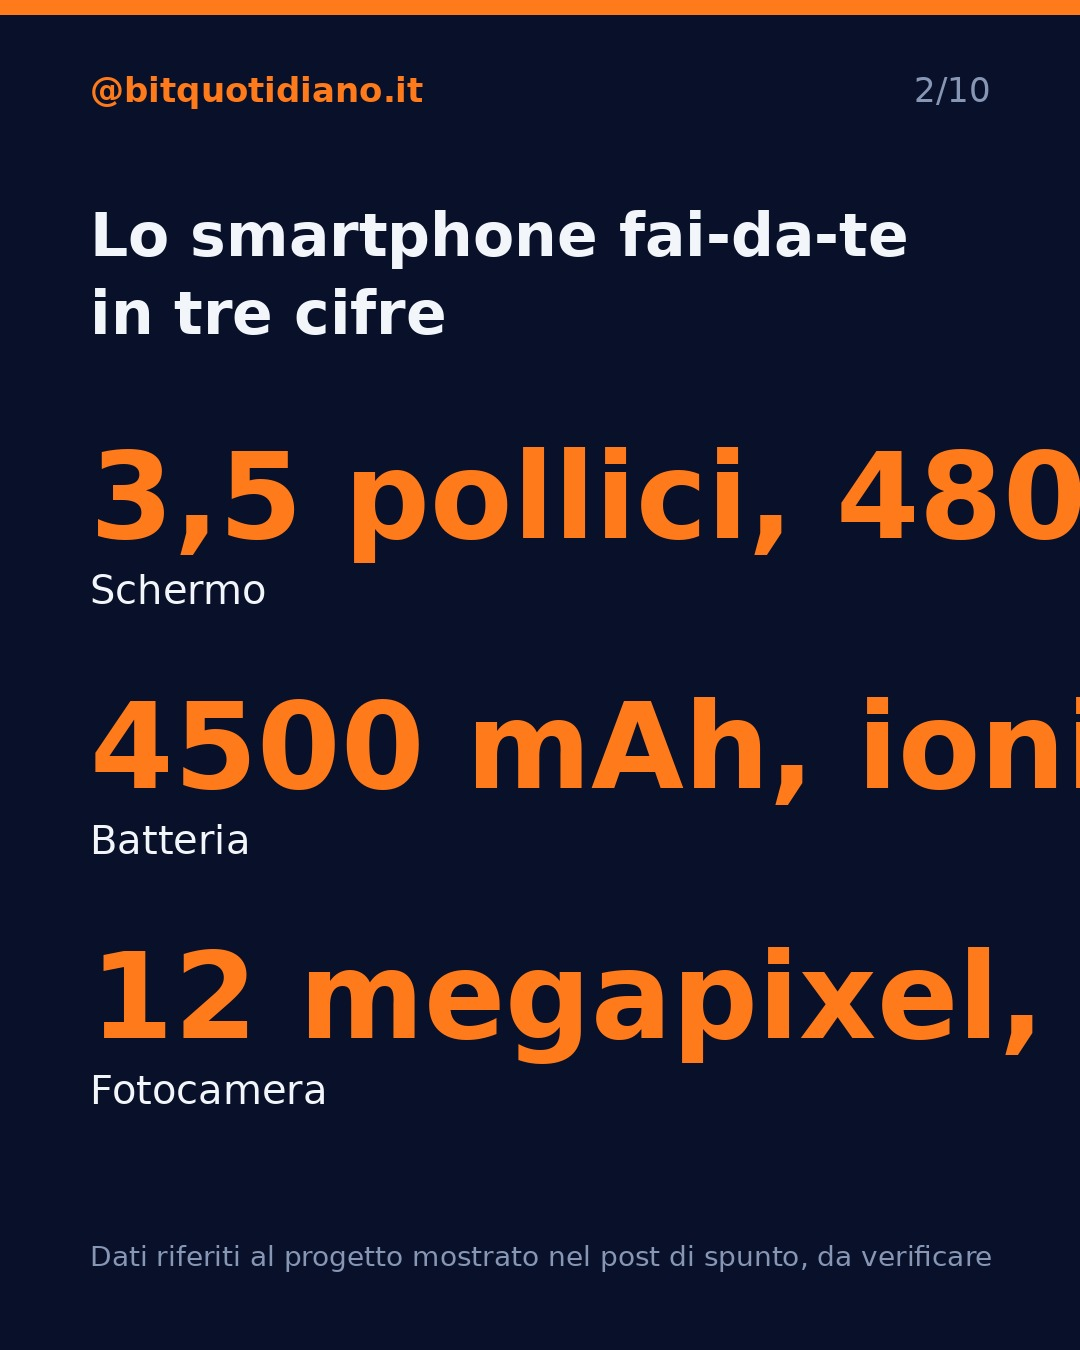
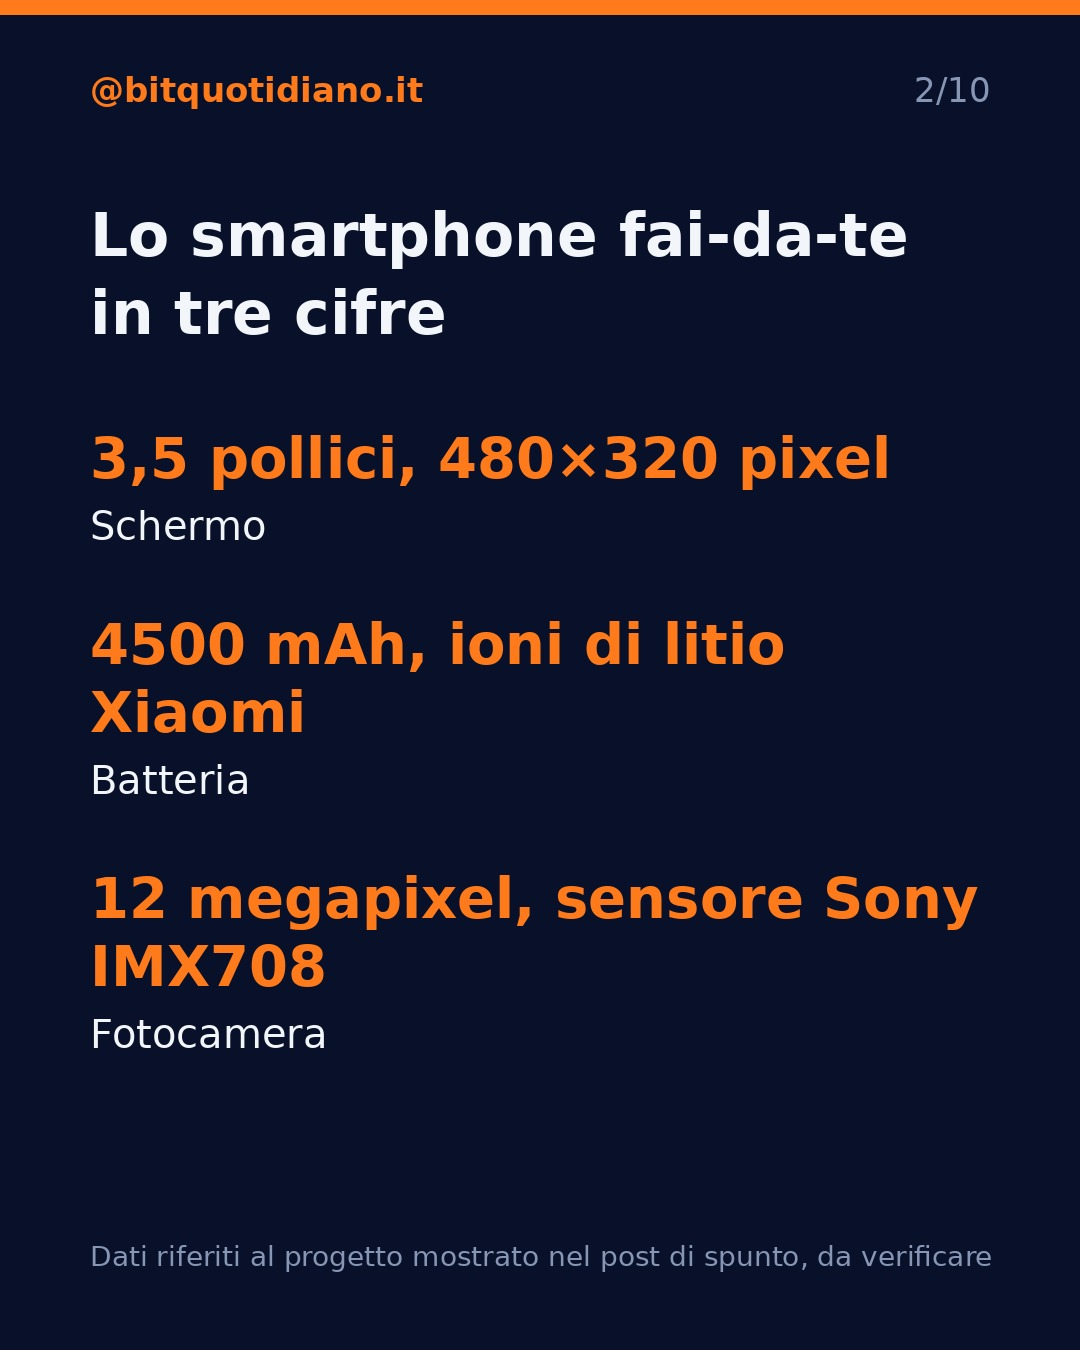
Infografica numeri: le cifre lunghe si adattano alla larghezza; valori brevi richiesti al modello
Claude-Session: https://claude.ai/code/session_01U6DSe7uv8AUo1LoLXyh9pn

Changed region(s): [[0.0611, 0.3111, 1.0, 0.84], [0.7944, 0.4978, 1.0, 0.5911]]

diff --git a/pipeline/render.py b/pipeline/render.py
@@ -75,10 +75,18 @@ def render_slide(titolo: str, testo: str, index: int, total: int, handle: str, o
 
 def _numeri(d, info, y):
     """1-3 cifre chiave, grandi, una sotto l'altra."""
-    big, small = _font(FONT_BOLD, 120), _font(FONT_REG, 40)
+    small = _font(FONT_REG, 40)
     for el in info.elementi[:3]:
-        d.text((MARGIN, y), el.testo, font=big, fill=ACCENT)
-        y += big.size + 20
+        # La cifra si rimpicciolisce finché sta nella larghezza della slide.
+        size = 120
+        big = _font(FONT_BOLD, size)
+        while size > 56 and d.textlength(el.testo, font=big) > W - 2 * MARGIN:
+            size -= 8
+            big = _font(FONT_BOLD, size)
+        for line in _wrap(d, el.testo, big, W - 2 * MARGIN)[:2]:
+            d.text((MARGIN, y), line, font=big, fill=ACCENT)
+            y += big.size + 12
+        y += 8
         for line in _wrap(d, el.etichetta, small, W - 2 * MARGIN):
             d.text((MARGIN, y), line, font=small, fill=FG)
             y += small.size + 10

diff --git a/pipeline/generate.py b/pipeline/generate.py
@@ -39,7 +39,7 @@ class Slide(BaseModel):
 class Elemento(BaseModel):
     etichetta: str = Field(description="Nome della voce o data della tappa, max 30 caratteri")
     valore: float | None = Field(description="Valore numerico (numeri e barre); null per la timeline")
-    testo: str = Field(description="Breve descrizione o valore formattato (es. '1,2 mld'), max 80 caratteri")
+    testo: str = Field(description="Per `numeri` e `barre`: solo il valore formattato, max 12 caratteri (es. '1,2 mld', '3,5\"'); per `timeline`: breve descrizione, max 80 caratteri")
 
 
 class Infografica(BaseModel):
